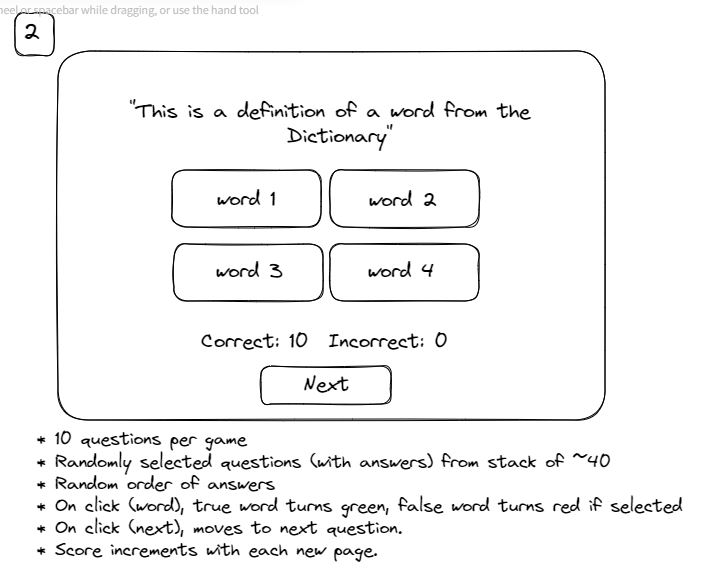
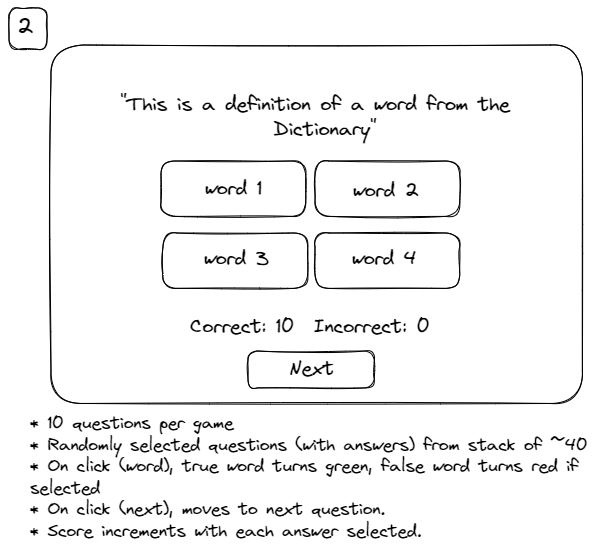
Add fixed bugs content to README.md and replace images in documentation folder to make uniform

diff --git a/assets/js/script.js b/assets/js/script.js
@@ -305,7 +305,7 @@ function showScore () {
   document.getElementById("score-comment").style.display = "block";
 
   if (oldScore === 10) {
-    document.getElementById("score-comment").innerHTML = "Congratulations! You are a True Word Genius!";
+    document.getElementById("score-comment").innerHTML = "Congratulations! You are a True Words Genius!";
   } else if (oldScore >= 7 && oldScore <= 9) {
     document.getElementById("score-comment").innerHTML = "Wow! You are an expert vocabularian. Keep playing!";
   } else if (oldScore >= 1 && oldScore <= 6) {

diff --git a/README.md b/README.md
@@ -5,7 +5,7 @@ By Helen Murugan
 [View the live site here](https://helenmurugan.github.io/true-words-quiz/index.html)
 
 
-This document describes the development process for True Words Quiz. IThis site is for educational purposes only, as my second portfolio project for a Diploma in Full Stack Software Development (E-Commerce Applications) with Code Institute, using frontend user-centric development with HTML, CSS and JavaScript.
+This document describes the development process for True Words Quiz. This site is for educational purposes only, as my second portfolio project for a Diploma in Full Stack Software Development (E-Commerce Applications) with Code Institute, using frontend user-centric development with HTML, CSS and JavaScript.
 
 ![Screen generator image showing True Words Quiz on different sized devices](/documentation/screen-generator.jpg)
 
@@ -14,7 +14,7 @@ True Words Quiz is a fully responsive JavaScript vocabulary quiz, aimed at peopl
 ## Design
 
 * Imagery  
-    * A black and white image of dictionary text was chosen as the background image for the quiz. This image is relevant to the subject matter of the quiz and is easily recognisable, helping the user understand what the quiz is about. 
+    * A black and white image of dictionary text was chosen as the background image for the quiz. This image is relevant to the subject matter and is easily recognisable, helping the user understand what the quiz is about. 
 
 * Typography
 
@@ -35,38 +35,41 @@ During the planning stage, I used Excalidraw to create wireframes for each page,
 
 ## Features
 * Home Page  
-    * The home page welcomes the user to the quiz, and gives a short and punchy description of how to play. The user is encouraged to move to the quiz page with the "Lets Play!" button. The text and buttons are neatly contained within a white box which is consistent throughout the quiz and score page.
+    * The home page welcomes the user to the quiz, and gives a short and punchy description of how to play. 
+    * The user is encouraged to move to the quiz page with the "Lets Play!" button. 
+    * The content is neatly contained within a white box which is consistent throughout the quiz.
 
 ![Image of home page](/documentation/home-page.jpg)
 
 * The Quiz Area
-    * The following features are implemented using JavaScript.
+    * The following features are implemented in script.js.
     * The quiz consists of a numbered definition (the question), with a button grid showing a choice of four words (the answers). 
     * The questions are shuffled at the start of each game so that each play is different.
-    * The user will be asked ten questions to complete the quiz, and moving onto the results.
+    * The user will be asked ten questions to complete the quiz, then shown the final score.
    
 ![Image of quiz area contained within a box](/documentation/quiz-container.jpg)
 
 * Button Feedback
-    * When the user hovers over a button, the button will change from black-on-silver to silver-on-black, implemented using CSS.
+    * When the user hovers over a button with a mouse, the button will change from black-on-silver to silver-on-black, implemented in style.css.
     * When the user clicks on a button, the background colour of the button will turn green if they selected the correct answer.
     * When the wrong answer is selected, the button will turn red and the correct answer button will turn green.
-    * This colour-coded feedback is implemented using JavaScript to add a class to the correct and incorrect buttons, and CSS to style said classes. It allows the user to see instantly which answers are correct.
-    * After an answer button is selected, a "Next" button appears at the bottom of the quiz container, prompting the user to move to the next question. The presence/absence of the button is controlled using JavaScript.
-    
+    * The colour-coded feedback is implemented by adding a class to the button with JavaScript and style using css. It allows the user to see instantly which answers are correct.
+    * After an answer button is selected, a "Next" button will appear at the bottom of the quiz container, prompting the user to move to the next question.
+
 ![Image showing green and red coloured buttons for correct and incorrect feedback](/documentation/background-colour-feedback.jpg)
 
 * Score Area  
     * The score area keeps a tally of the correct and incorrect answer scores. 
-    * They are colour coded in green and red which is intuitively easier to read than the actual text.
+    * They are colour coded in green and red which is intuitively easy to understand.
     * The scores are incremented immediately when the answer-button is selected, giving instant fedback to the user. This was achieved using JavaScript for the score and CSS for the colour.
 
 ![Image of score area](/documentation/score-area.jpg)
 
-* Score Page 
-    * The score out of 10 is displayed at the top of the page, this has been implemented on the quiz.html page using JavaScript.
+* Score Page
+    * After ten questions have been answered, a score page will appear, implemented in script.js.
+    * The score out of 10 is displayed at the top of the page.
     * A comment gives a short encouraging message to the user based on their score. There are four possible messages based on four score conditions.
-    * A "Play Again" button encourages the user to continue playing. The questions are shuffled at the start of every game.
+    * A "Play Again" button encourages the user to continue playing.
 
 ![Image of score page](/documentation/score-page.jpg)
 
@@ -75,12 +78,14 @@ During the planning stage, I used Excalidraw to create wireframes for each page,
 
 ![Image of favicon](/documentation/favicon.jpg)
 
-* Features left to Implement
-    * To improve the quiz, more questions should be added to the questionBank array in script.js. More questions will reduce the chance of users seeing the same question twice.
-    * To improve the appearance of the score page, an image or icon based on their score could be added using JavaScript.
+* Possible Features Left to Implement
+    * To improve the quiz, more questions should be added to the questionBank array in script.js. Currently there are 23 questions, however, more questions will reduce the chance of users seeing the same question twice. If more questions are added the questions could be located in a separate JavaScript file.
+    * JavaScript could be used to shuffle the answer buttons so that the correct answer appears in a random position as one of the four options. This would save time when inputting more questions into the questionBank because the correct answer could be written first every time.
+    * Different levels of difficulty could be added as a feature - typically Easy, Medium and Difficult.
+    * To improve the appearance of the score page, an image or icon based on the user's score could be added using JavaScript.
 
 ## Testing
-The site has been thoroughly tested and works well on devices of all sizes.
+The site has been thoroughly tested and works well on devices of all sizes, both in function and appearance.
 
 ### Validator Testing
 * HTML
@@ -101,11 +106,11 @@ The site has been thoroughly tested and works well on devices of all sizes.
 ![Image showing Lighthouse analysis of quiz page](/documentation/lighthouse.jpg)
 
 ### Fixed Bugs
-I discovered several interesting bugs after deployment, mostly relating to mobile devices. These were all investigated and fortunately i was able to fix the bugs as detailed below.
-* Button-grid jumping up very slightly when Next button appears after a button had been clicked on. This bug was not visible in DevTools and strangely seemed to appear only on iphones. The bug was corrected by reducing the height in pixels of the question (or definition) element to allow a little more space for the Next button.
-* On mobile devices the background colour feedback on the answer buttons did not work correctly. The selected button would appear black (the hover colour), instead of green or red for correct and incorrect respectively. This was only an issue on mobile devices due to the way mobile devices interact with the web page (hover isn't possible on mobile devices in the way it is on a desktop). This issue was corrected by adding !important to the background-color and font color style rules for the correct and incorrect classes, so that they take precedence over the hover style rules.
-* On mobile devices the Play Again button font colour appeared the default font colour for buttons which is blue. At first I changed the color to black using an id but this prevented the hover styling from working correctly (the font colour remained black when hovered over, instead of turning silver). This was fixed by creating a class for the font colour (rather than an id) so that it has the same level of importance as the hover class and now works well on all devices.
-* On the first time that the quiz page was loaded on a new device, the Next and Play Again buttons appeared flashed up very briefly before disappearing. It happened so quickly you weren't sure if you had really seen it!...
+I discovered several interesting bugs after deployment. These were all investigated and fortunately I was able to fix the bugs as detailed below.
+
+* The button-grid jumped up very slightly when the Next button appeared. This bug was not visible in DevTools and strangely seemed to appear only on iphones. The bug was corrected by reducing the height in pixels of the question (or definition) element to allow a little more space for the Next button.
+* On mobile devices the background colour feedback on the answer buttons did not work correctly. The selected button would appear black (the hover colour), instead of green or red for correct and incorrect respectively. Due to the way mobile devices interact with the web page, the hover style rule was applied, in reality hover isn't possible on a touch-screen. This issue was corrected by adding !important to the background-color and font color style rules for the correct and incorrect classes, so that they take precedence over the hover style rules.
+* When the quiz page was loaded the Next and Play Again buttons flashed up very quickly when they should be hidden. It happened so quickly you weren't sure if you had really seen it, and seemed to only happen the first time the page was loaded on a new device. The buttons were present in my html file and JavaScript was used to hide the buttons. As the computer was reading the html code first it would show and then hide the buttons. To correct this bug, I simply added a style rule for display: none so that the buttons should not be displayed in the first instance.
 
 ## Unfixed bugs
 * There are no unfixed bugs.
